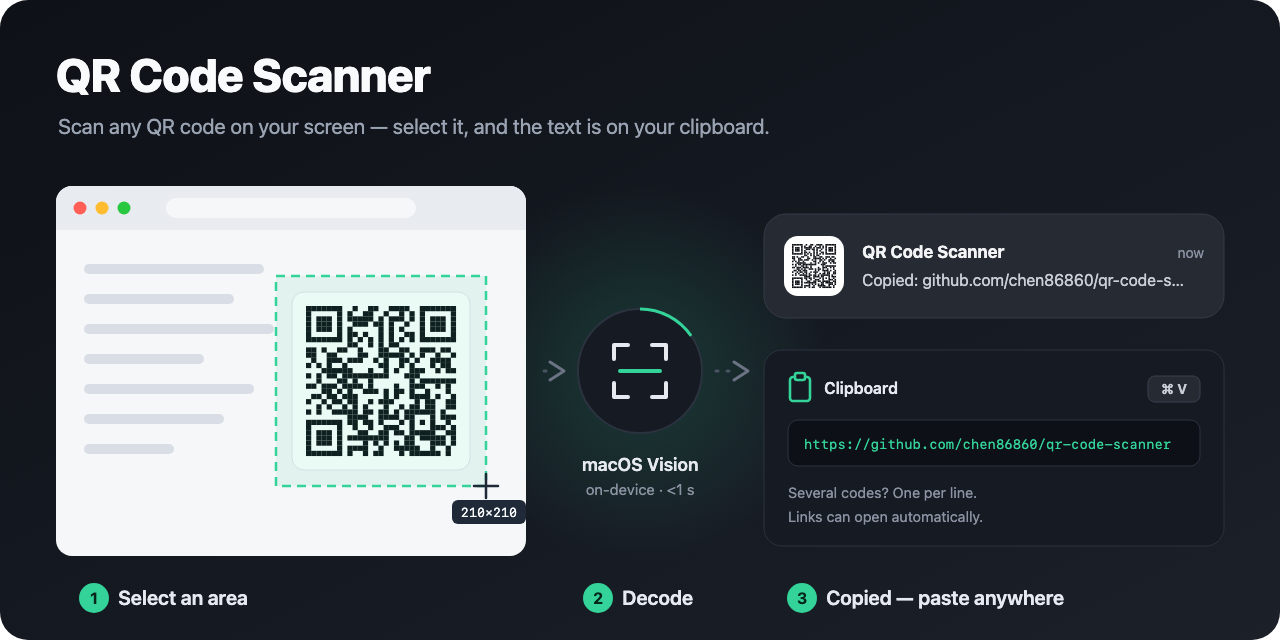
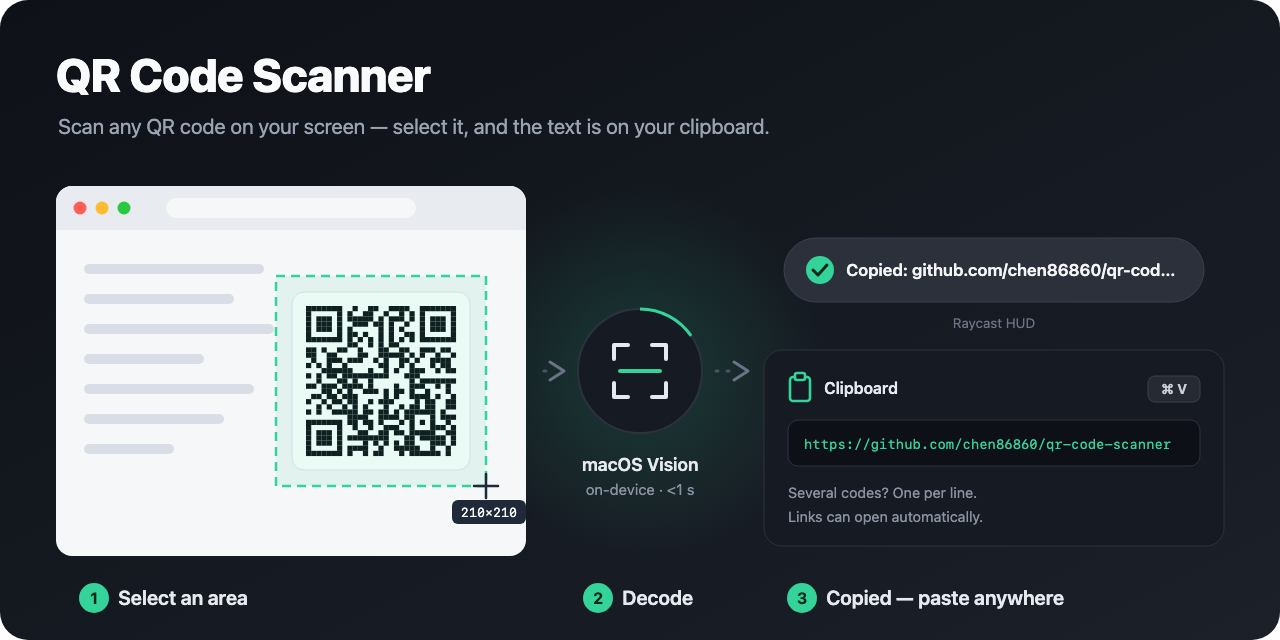
docs: describe HUD feedback in README, changelog and hero image

Changed region(s): [[0.5938, 0.3438, 0.9062, 0.4688], [0.75, 0.5, 0.8125, 0.5312], [0.9062, 0.375, 0.9375, 0.4062]]

diff --git a/README.md b/README.md
@@ -15,9 +15,8 @@ It also runs in Raycast-compatible launchers that execute Raycast extensions.
   full Retina display decodes in under a second, with no image libraries at all (the command bundle
   is about 1 KB).
 - **Several codes at once.** Every QR / Micro QR code in the capture is copied, one per line.
-- **Survives the launcher.** Capture and decoding run in a detached helper, so the scan finishes even
-  when the launcher tears the command down as its window hides (e.g. _Pop to Root Search:
-  Immediately_).
+- **Native feedback.** Results go through Raycast's own APIs: the clipboard, a HUD, and `open`, which
+  respects each URL's registered app (deep links open in their app, not the browser).
 - **Safe URL opening.** Only `http`, `https`, `ftp` and `mailto` links, plus bare domains such as
   `example.com/path`, are ever opened; everything else is just copied.
 
@@ -32,21 +31,21 @@ It also runs in Raycast-compatible launchers that execute Raycast extensions.
 ## Permissions
 
 macOS asks for **Screen Recording** permission for your launcher the first time you scan
-(System Settings → Privacy & Security → Screen & System Audio Recording). Results are reported with
-a system notification, so allow notifications for _Script Editor_ if you want to see them.
+(System Settings → Privacy & Security → Screen & System Audio Recording).
 
 ## How it works
 
 ```
 Scan QR Code (src/scan-qr-code.ts)
-  └─ spawns, detached:  osascript -l JavaScript assets/scan-qr.js <mode> <silence> <openUrl>
-                           ├─ /usr/sbin/screencapture  (-i selection, or one file per display)
-                           ├─ VNDetectBarcodesRequest  (QR + Micro QR)
-                           └─ NSPasteboard / NSWorkspace / notification
+  ├─ osascript -l JavaScript assets/scan-qr.js <mode> <silence>
+  │    ├─ /usr/sbin/screencapture   (-i selection, or one file per display)
+  │    ├─ VNDetectBarcodesRequest   (QR + Micro QR)
+  │    └─ prints {"status":"ok","codes":[…]} | cancelled | not-found
+  └─ Clipboard.copy → open (optional) → showHUD
 ```
 
-`assets/scan-qr.js` is plain JavaScript for Automation (JXA) because `osascript` executes it
-directly. Its pure helpers are unit-tested from Node; only `run()` touches macOS.
+`assets/scan-qr.js` is JavaScript for Automation (JXA) because `osascript` executes it directly. It
+only captures and decodes; everything the user sees is TypeScript in `src/` and unit-tested.
 
 ## Development
 

diff --git a/CHANGELOG.md b/CHANGELOG.md
@@ -4,8 +4,8 @@
 
 - Decode with the macOS Vision framework instead of `jimp` + `jsQR`; the command bundle drops from
   ~726 KB to ~1 KB and Retina-sized captures decode in well under a second.
-- Run capture and decoding in a detached JXA helper, so a scan completes even when the launcher stops
-  the command as its window hides.
+- Capture and decode in a small JXA helper; report results with Raycast's `Clipboard`, `open` and
+  `showHUD` APIs.
 - Copy every QR / Micro QR code found in the capture, one per line.
 - Scan all displays with a single `screencapture` call in _Entire Screen_ mode.
 - Convert the command to `no-view`; move to `@raycast/api` 2, TypeScript 6, ESLint 10, pnpm 11 and
